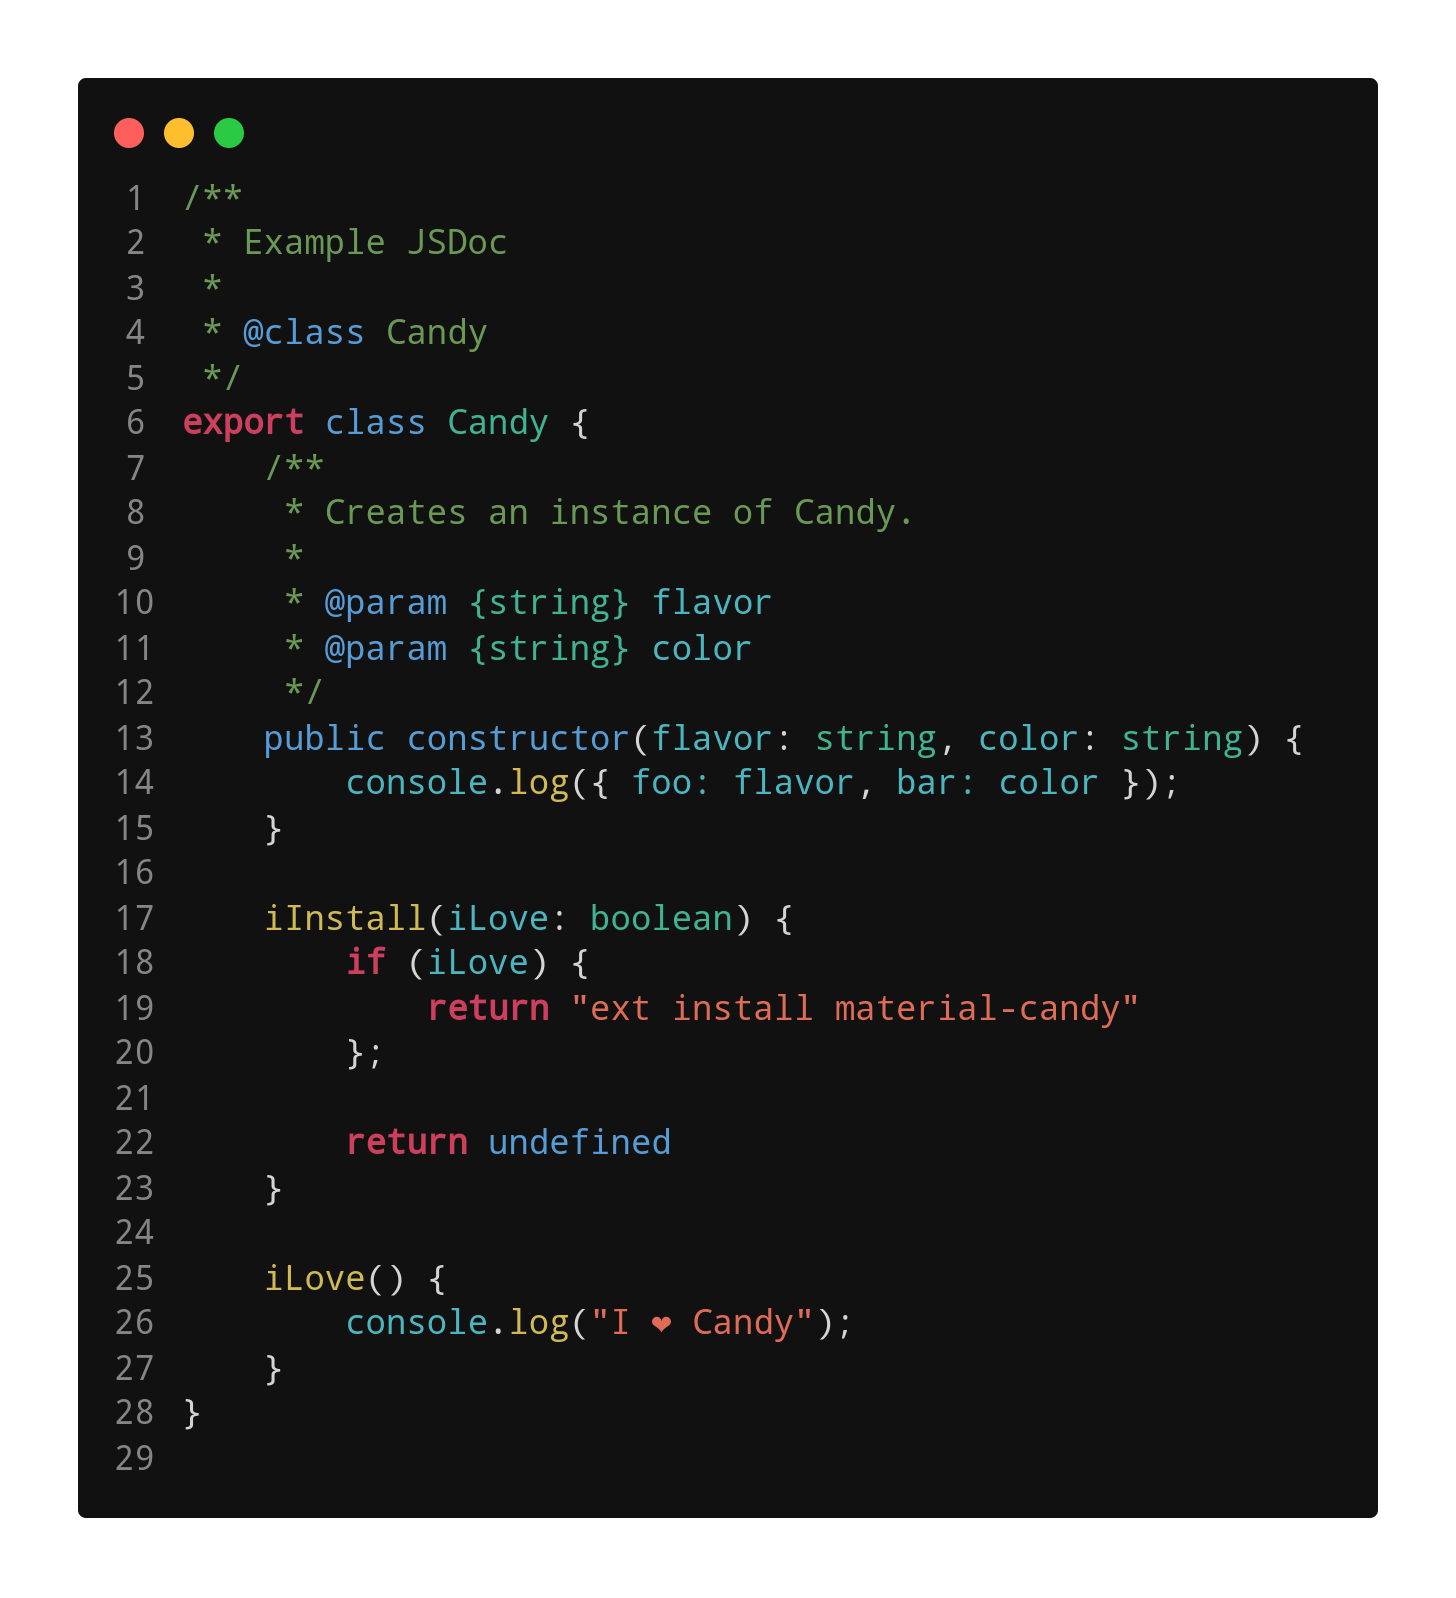
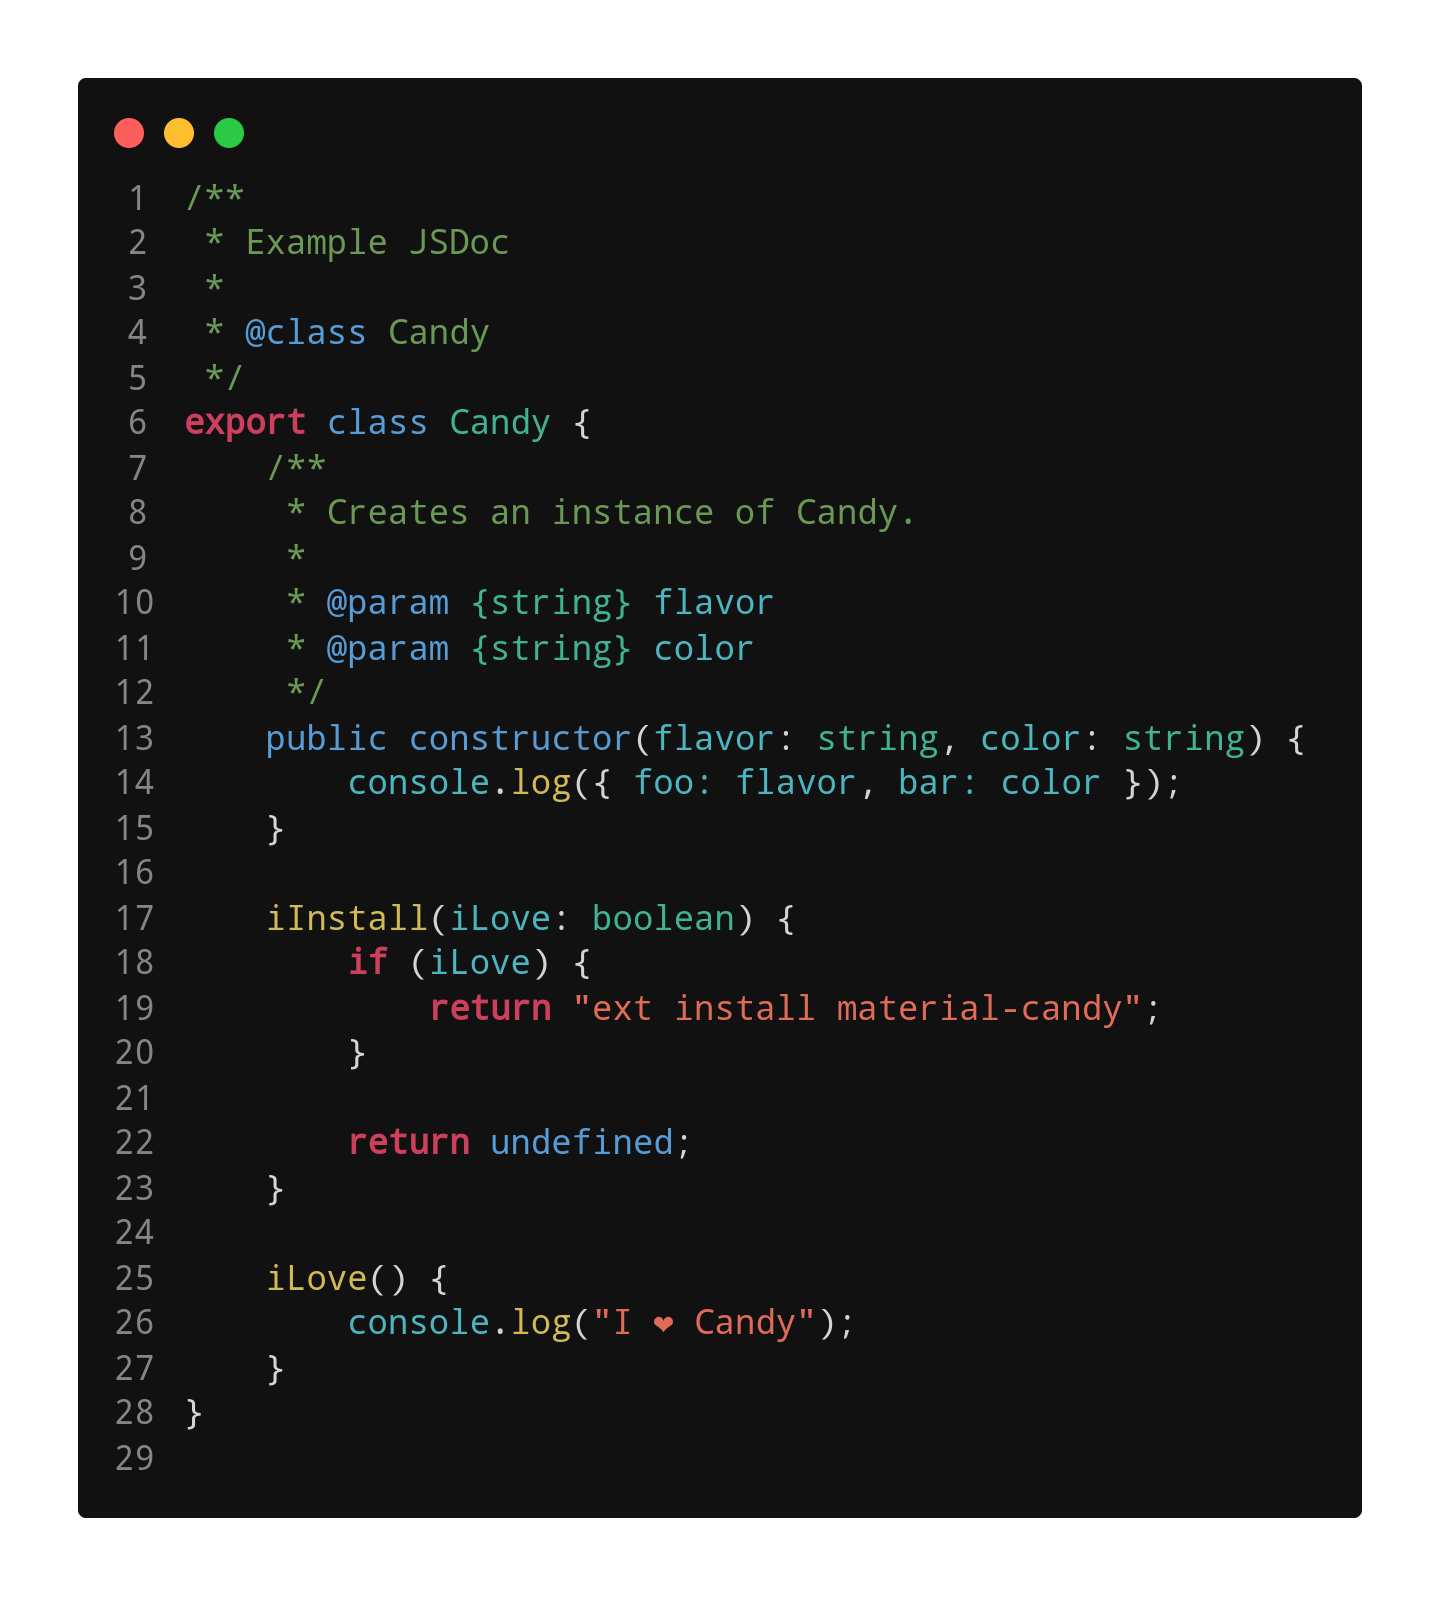
chore: readme

diff --git a/examples/example.ts b/examples/example.ts
@@ -16,10 +16,10 @@ export class Candy {
 
 	iInstall(iLove: boolean) {
 		if (iLove) {
-			return "ext install material-candy"
-		};
+			return "ext install material-candy";
+		}
 
-		return undefined
+		return undefined;
 	}
 
 	iLove() {
